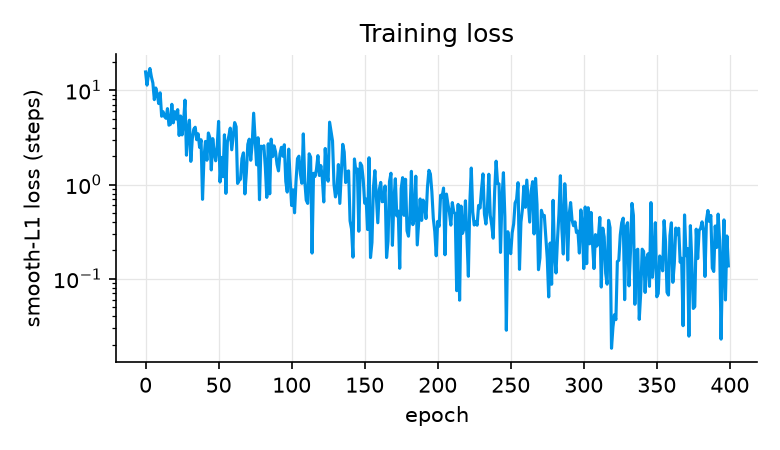
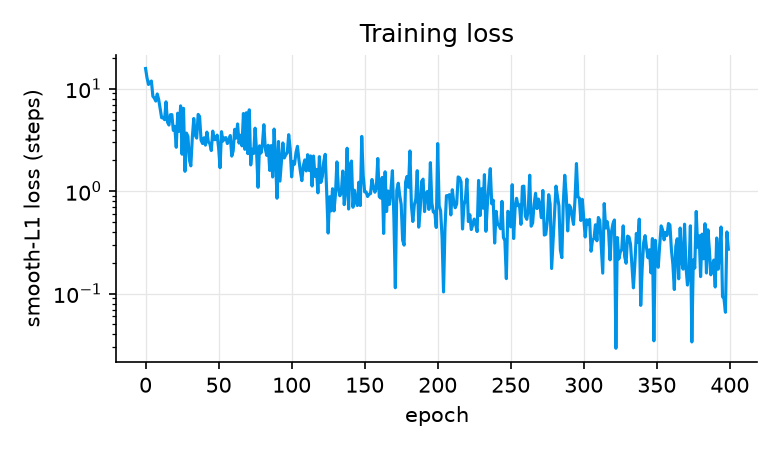
P6-Gait-Wearable: retrain StepNet on 9 counted takes (6 walks, 3 stands)
Three new takes (stand 0, walk 40, walk 27) on top of the six from 11/01, plus the
four guided STAND/BIKE zero segments. Leave-one-recording-out: walk MAE 4.5 steps,
stand 0.1, pm_pct95 47 %. The final fit reproduces every walk within ~2 steps and
scores the gap-skipped Walk3 take (never trained on) at 20.4 for a typed 23.
Held-out error is dominated by two takes whose typed count disagrees with the
thigh-gyro swing-cycle count (RafaeTest1: 40 cycles, typed 30; Walk2: 10, typed 7).
Deployed to the board 2026-11-02.

Changed region(s): [[0.0923, 0.1556, 0.9538, 0.7778], [0.0615, 0.5911, 0.1538, 0.6844], [0.0923, 0.1867, 0.1538, 0.2178]]

diff --git a/P6-Gait-Wearable/docs/steps_results.md b/P6-Gait-Wearable/docs/steps_results.md
@@ -1,31 +1,34 @@
 # Step counter results
 
-Generated by `train/steps.py --report` on 2026-11-01 15:28 from 6 counted takes and 4 zero segments from guided sessions (the zero segments in every training fold, never held out).
+Generated by `train/steps.py --report` on 2026-11-02 10:27 from 9 counted takes and 4 zero segments from guided sessions (the zero segments in every training fold, never held out).
 
 ## Leave-one-recording-out
 
 | metric | value |
 |---|---|
-| takes | 6 |
-| mean absolute error | 1.49 steps |
-| mean absolute percentage error | 17.2 % |
-| bias (predicted − true) | -0.08 steps |
-| 95 % bootstrap interval of the mean % error | -10.6 % to +40.5 % |
-| 95th percentile of the absolute % error (shown live as ±) | 48.1 % |
-| seed-to-seed spread of a prediction (5 fits) | 0.72 steps |
+| takes | 9 |
+| mean absolute error | 3.04 steps |
+| mean absolute percentage error | 22.0 % |
+| bias (predicted − true) | -0.41 steps |
+| 95 % bootstrap interval of the mean % error | -15.8 % to +27.5 % |
+| 95th percentile of the absolute % error (shown live as ±) | 47.3 % |
+| seed-to-seed spread of a prediction (5 fits) | 0.38 steps |
 
 | activity | takes | MAE (steps) | bias (steps) |
 |---|---|---|---|
-| STAND | 2 | 0.19 | +0.19 |
-| WALK | 4 | 2.13 | -0.21 |
+| STAND | 3 | 0.11 | +0.11 |
+| WALK | 6 | 4.51 | -0.67 |
 
 | take | activity | true | predicted | error |
 |---|---|---|---|---|
-| 20261101-194004-steps-walk-n30-RafaeTest1.csv | WALK | 30 | 30.1 | +0.1 |
-| 20261101-194200-steps-walk-n32-RafaeTest2.csv | WALK | 32 | 27.5 | -4.5 |
+| 20261101-194004-steps-walk-n30-RafaeTest1.csv | WALK | 30 | 37.8 | +7.8 |
+| 20261101-194200-steps-walk-n32-RafaeTest2.csv | WALK | 32 | 25.9 | -6.1 |
 | 20261101-200213-steps-stand-n0-StandTest.csv | STAND | 0 | 0.1 | +0.1 |
-| 20261101-200235-steps-stand-n0-StandTest2.csv | STAND | 0 | 0.3 | +0.3 |
-| 20261101-200304-steps-walk-n31-Walk1.csv | WALK | 31 | 30.8 | -0.2 |
-| 20261101-200333-steps-walk-n7-Walk2.csv | WALK | 7 | 10.8 | +3.8 |
+| 20261101-200235-steps-stand-n0-StandTest2.csv | STAND | 0 | 0.2 | +0.2 |
+| 20261101-200304-steps-walk-n31-Walk1.csv | WALK | 31 | 30.2 | -0.8 |
+| 20261101-200333-steps-walk-n7-Walk2.csv | WALK | 7 | 10.7 | +3.7 |
+| 20261102-150711-steps-stand-n0-Rafae.csv | STAND | 0 | 0.1 | +0.1 |
+| 20261102-150738-steps-walk-n40-Rafae.csv | WALK | 40 | 39.4 | -0.6 |
+| 20261102-150817-steps-walk-n27-Rafae2.csv | WALK | 27 | 19.0 | -8.0 |
 
-Final fit: 400 epochs, last-epoch loss 0.137.
+Final fit: 400 epochs, last-epoch loss 0.272.
